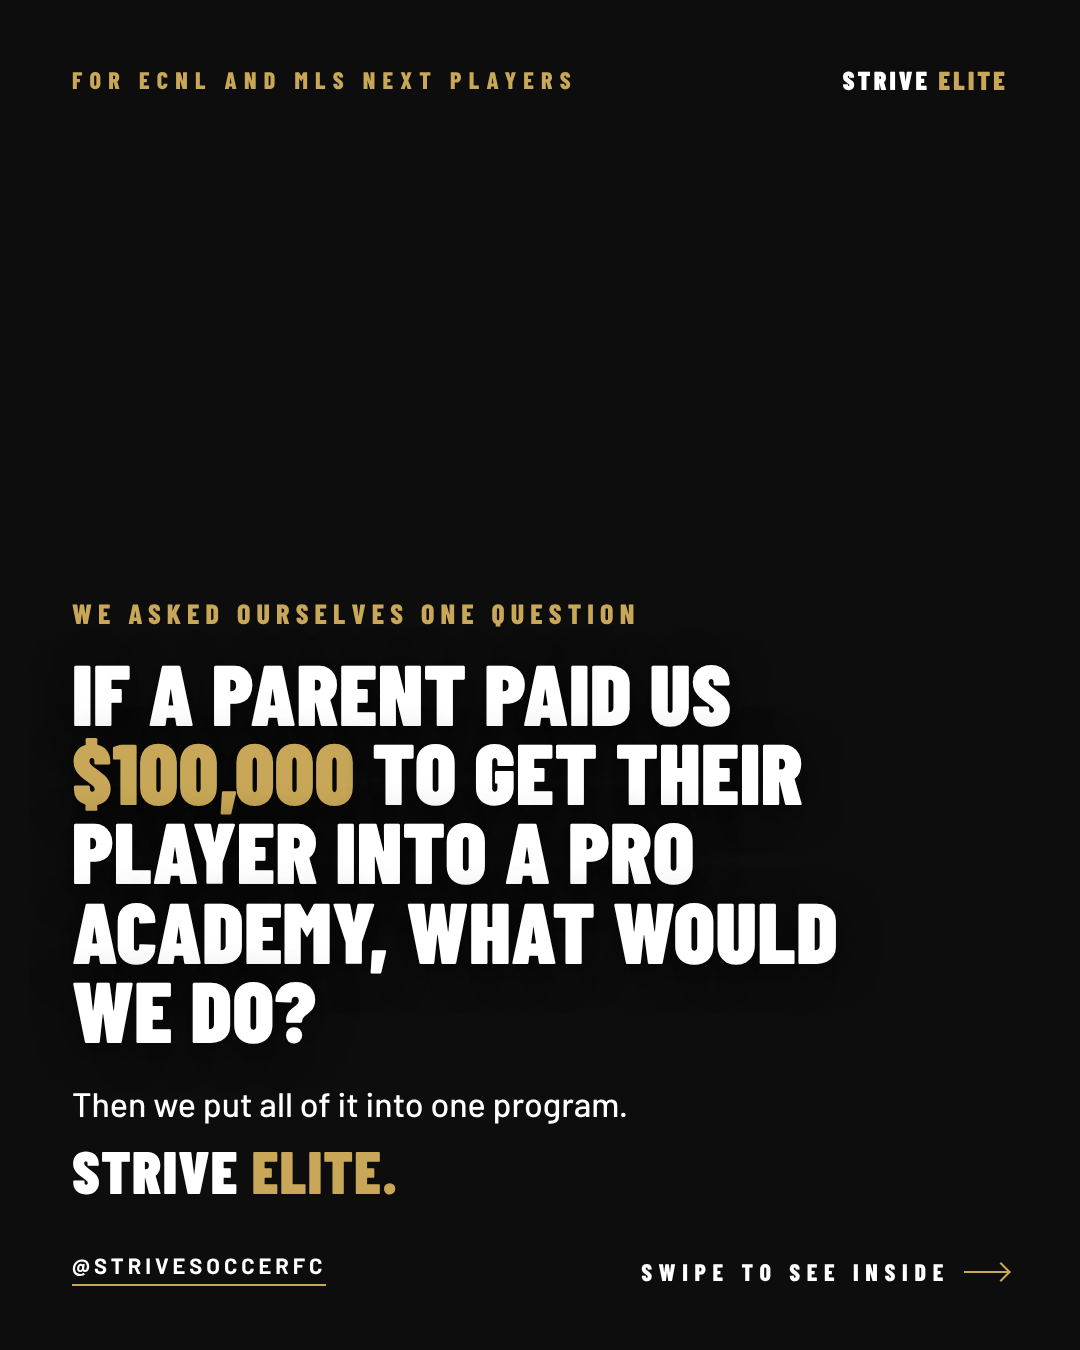
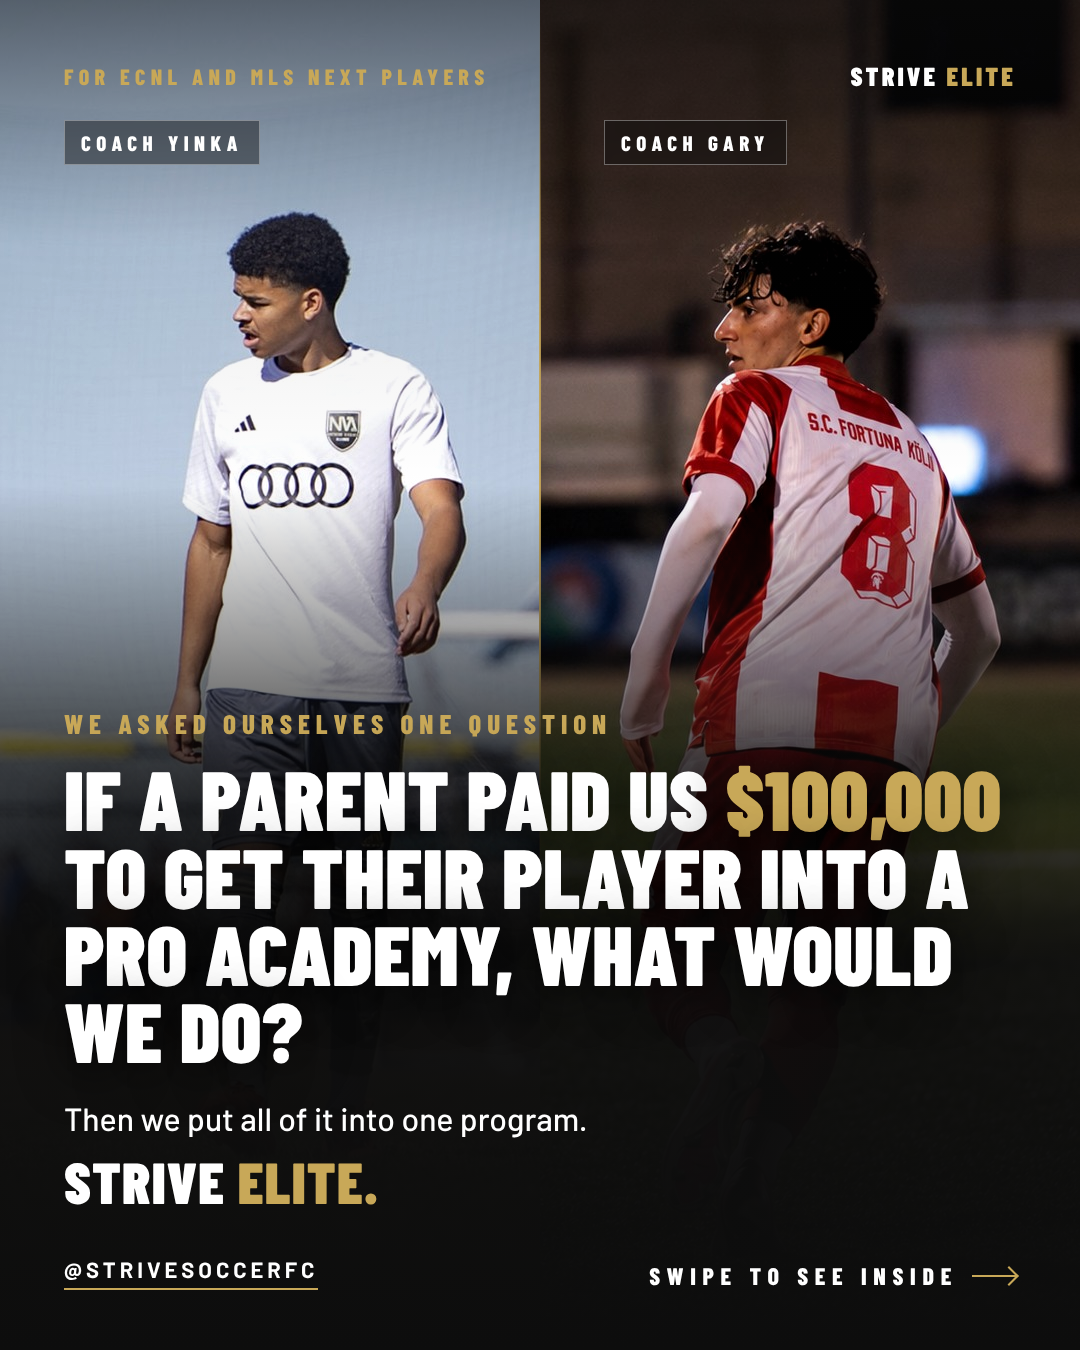
Offer carousel: two-panel cover with Coach Yinka and Coach Gary
Claude-Session: https://claude.ai/code/session_011JsCTTjCbUkHbTuWTKQSXJ

diff --git a/marketing/announcement/offer-post/cover.html b/marketing/announcement/offer-post/cover.html
@@ -2,36 +2,40 @@
 <title>Cover (1080x1350)</title>
 <link rel="stylesheet" href="../../covers/strive-elite-meeting/fonts.css">
 <style>
-/* Slide 1. Coach Yinka's hook (Nov 4 2026): "if a parent paid us
-   $100,000 to get their kid on a pro academy, what would we do? Then we
-   put it all into one program. Strive Elite. Swipe to see the inside."
-   "their player" by the Oct 7 wording rule. Photo slot: a big group
-   session or camp photo once he sends one (photos/hero.jpg); until then
-   brand black, no posed shoot photo (his Nov 4 rule). */
+/* Slide 1. Coach Yinka (left, daylight) and Coach Gary (right, SC Fortuna
+   Koln, night) as a two-panel cover, his own photos (Nov 4 2026), under
+   the $100,000 question hook. Day and night panels are pulled together
+   with one grade and one gradient. */
 *{box-sizing:border-box;margin:0;padding:0}
 html,body{width:1080px;height:1350px;background:#0d0d0d;overflow:hidden}
 body{font-family:'Barlow',sans-serif;color:#fff;position:relative}
-.ph{position:absolute;inset:0;background:#0d0d0d url(photos/hero.jpg) center/cover}
-.sh{position:absolute;inset:0;background:linear-gradient(180deg,rgba(13,13,13,.6) 0%,rgba(13,13,13,.35) 30%,rgba(13,13,13,.85) 60%,rgba(13,13,13,.98) 100%)}
-.top{position:absolute;left:72px;top:64px;right:72px;display:flex;justify-content:space-between;align-items:center}
-.eyebrow{font-family:'Barlow Condensed';font-weight:800;font-size:24px;letter-spacing:.3em;text-transform:uppercase;color:#c8a858}
+.ph{position:absolute;top:0;width:540px;height:1350px;background-size:cover;background-position:center top;filter:saturate(.88) contrast(1.04)}
+.l{left:0;background-image:url(photos/yinka.jpg)}
+.r{left:540px;background-image:url(photos/gary.jpg)}
+.div{position:absolute;left:539px;top:0;width:2px;height:1350px;background:linear-gradient(180deg,rgba(200,168,88,0) 0%,rgba(200,168,88,.9) 25%,rgba(200,168,88,.9) 50%,rgba(200,168,88,0) 72%)}
+.sh{position:absolute;inset:0;background:linear-gradient(180deg,rgba(13,13,13,.55) 0%,rgba(13,13,13,.08) 18%,rgba(13,13,13,0) 36%,rgba(13,13,13,.72) 56%,rgba(13,13,13,.96) 70%,#0d0d0d 100%)}
+.top{position:absolute;left:64px;top:60px;right:64px;display:flex;justify-content:space-between;align-items:center}
+.eyebrow{font-family:'Barlow Condensed';font-weight:800;font-size:22px;letter-spacing:.24em;text-transform:uppercase;color:#c8a858}
 .wm{font-family:'Barlow Condensed';font-weight:900;font-size:26px;letter-spacing:.12em;text-transform:uppercase}
 .wm span{color:#c8a858}
-.txt{position:absolute;left:72px;right:72px;bottom:150px}
-.kick{font-family:'Barlow Condensed';font-weight:800;font-size:28px;letter-spacing:.22em;text-transform:uppercase;color:#c8a858;margin-bottom:22px}
-h1{font-family:'Barlow Condensed';font-weight:900;font-size:86px;line-height:.92;text-transform:uppercase;letter-spacing:.005em;text-shadow:0 6px 40px rgba(0,0,0,.6)}
+.tag{position:absolute;top:120px;font-family:'Barlow Condensed';font-weight:800;font-size:21px;letter-spacing:.26em;text-transform:uppercase;color:#fff;padding:9px 16px;border:1px solid rgba(255,255,255,.35);background:rgba(13,13,13,.45);backdrop-filter:blur(6px)}
+.tag.l{left:64px}.tag.r{left:604px}
+.txt{position:absolute;left:64px;right:64px;bottom:140px}
+.kick{font-family:'Barlow Condensed';font-weight:800;font-size:27px;letter-spacing:.22em;text-transform:uppercase;color:#c8a858;margin-bottom:20px}
+h1{font-family:'Barlow Condensed';font-weight:900;font-size:84px;line-height:.92;text-transform:uppercase;letter-spacing:.005em;text-shadow:0 8px 50px rgba(0,0,0,.7)}
 h1 span{color:#c8a858}
-.ans{margin-top:34px;font-size:34px;line-height:1.3;font-weight:500;color:#fff;max-width:900px}
-.ans b{font-family:'Barlow Condensed';font-weight:900;font-size:60px;line-height:1;text-transform:uppercase;letter-spacing:.02em;display:block;margin-top:14px}
+.ans{margin-top:30px;font-size:32px;line-height:1.3;font-weight:500;color:#fff}
+.ans b{font-family:'Barlow Condensed';font-weight:900;font-size:58px;line-height:1;text-transform:uppercase;letter-spacing:.02em;display:block;margin-top:12px}
 .ans b span{color:#c8a858}
-.swipe{position:absolute;right:72px;bottom:64px;font-family:'Barlow Condensed';font-weight:800;font-size:24px;letter-spacing:.28em;text-transform:uppercase;color:#fff;display:flex;align-items:center;gap:14px}
+.swipe{position:absolute;right:64px;bottom:60px;font-family:'Barlow Condensed';font-weight:800;font-size:24px;letter-spacing:.28em;text-transform:uppercase;color:#fff;display:flex;align-items:center;gap:14px}
 .swipe i{display:block;width:44px;height:2px;background:#c8a858;position:relative}
 .swipe i:after{content:"";position:absolute;right:0;top:-6px;width:12px;height:12px;border-top:2px solid #c8a858;border-right:2px solid #c8a858;transform:rotate(45deg)}
-.handle{position:absolute;left:72px;bottom:64px;font-weight:700;font-size:22px;letter-spacing:.18em;text-transform:uppercase}
+.handle{position:absolute;left:64px;bottom:60px;font-weight:700;font-size:22px;letter-spacing:.18em;text-transform:uppercase}
 .handle:after{content:"";display:block;height:2px;width:100%;background:#c8a858;margin-top:6px}
 </style>
-<div class="ph"></div><div class="sh"></div>
+<div class="ph l"></div><div class="ph r"></div><div class="div"></div><div class="sh"></div>
 <div class="top"><div class="eyebrow">For ECNL and MLS NEXT players</div><div class="wm">Strive <span>Elite</span></div></div>
+<div class="tag l">Coach Yinka</div><div class="tag r">Coach Gary</div>
 <div class="txt">
   <div class="kick">We asked ourselves one question</div>
   <h1>If a parent paid us <span>$100,000</span> to get their player into a pro academy, what would we&nbsp;do?</h1>

diff --git a/CLAUDE.md b/CLAUDE.md
@@ -3188,6 +3188,20 @@ commit.
       STRIVE ELITE.", "Swipe to see inside". Rendered on brand black
       with a photos/hero.jpg slot for the group photo he sends. The
       promise stays as slide 4's headline. Sent.
+      THEN (Coach Yinka sent two photos, himself in the NVA kit on a
+      field by day and Gary in the SC Fortuna Koln number 8 at night:
+      "Use these two photos for the cover be creative it better be
+      insane and high quality and sleek"): COVER REBUILT as a two-panel
+      photo cover, him left and Gary right, each a 540x1350 half
+      cropped so the two faces sit level, a gold hairline between the
+      panels, one grade (slight desaturate, a touch of contrast) and
+      one gradient pulling day and night together, COACH YINKA / COACH
+      GARY tags at the top of each panel, the $100,000 question and
+      STRIVE ELITE over the dark lower third, Swipe to see inside.
+      Photos kept in marketing/announcement/offer-post/photos/
+      (yinka.jpg, gary.jpg). Preview strip re-rendered. Sent. Slides 2
+      and 6 still carry the Oct 4 shoot photos until his group, camp
+      and story photos arrive.
 
 ## Growth target (stamped Sept 19, Coach Yinka's own call)
 

diff --git a/marketing/announcement/strive-elite-offer-post.md b/marketing/announcement/strive-elite-offer-post.md
@@ -79,8 +79,11 @@ arrive and are then rebuilt. No stock, no generated images, no alumni.
    If a parent paid us $100,000 to get their player into a pro academy,
    what would we do? Then we put all of it into one program. Strive
    Elite." Eyebrow "For ECNL and MLS NEXT players", "Swipe to see
-   inside". Photo slot photos/hero.jpg (a big group session or camp
-   photo, his to send); brand black until then. The earlier promise
+   inside". Two-panel photo cover: Coach Yinka (left, daylight, the NVA
+   kit) and Coach Gary (right, night, SC Fortuna Koln number 8), his own
+   photos sent Nov 4 (photos/yinka.jpg, photos/gary.jpg, 540x1350 halves
+   cropped so both faces sit level), a gold hairline between them, one
+   grade and one gradient over both, COACH YINKA / COACH GARY tags. The earlier promise
    hook moved to slide 4 only.
 2. problem: the /demo headline "Team training 3-4x a week is not close to
    enough." then "The next level is decided in the hours between
